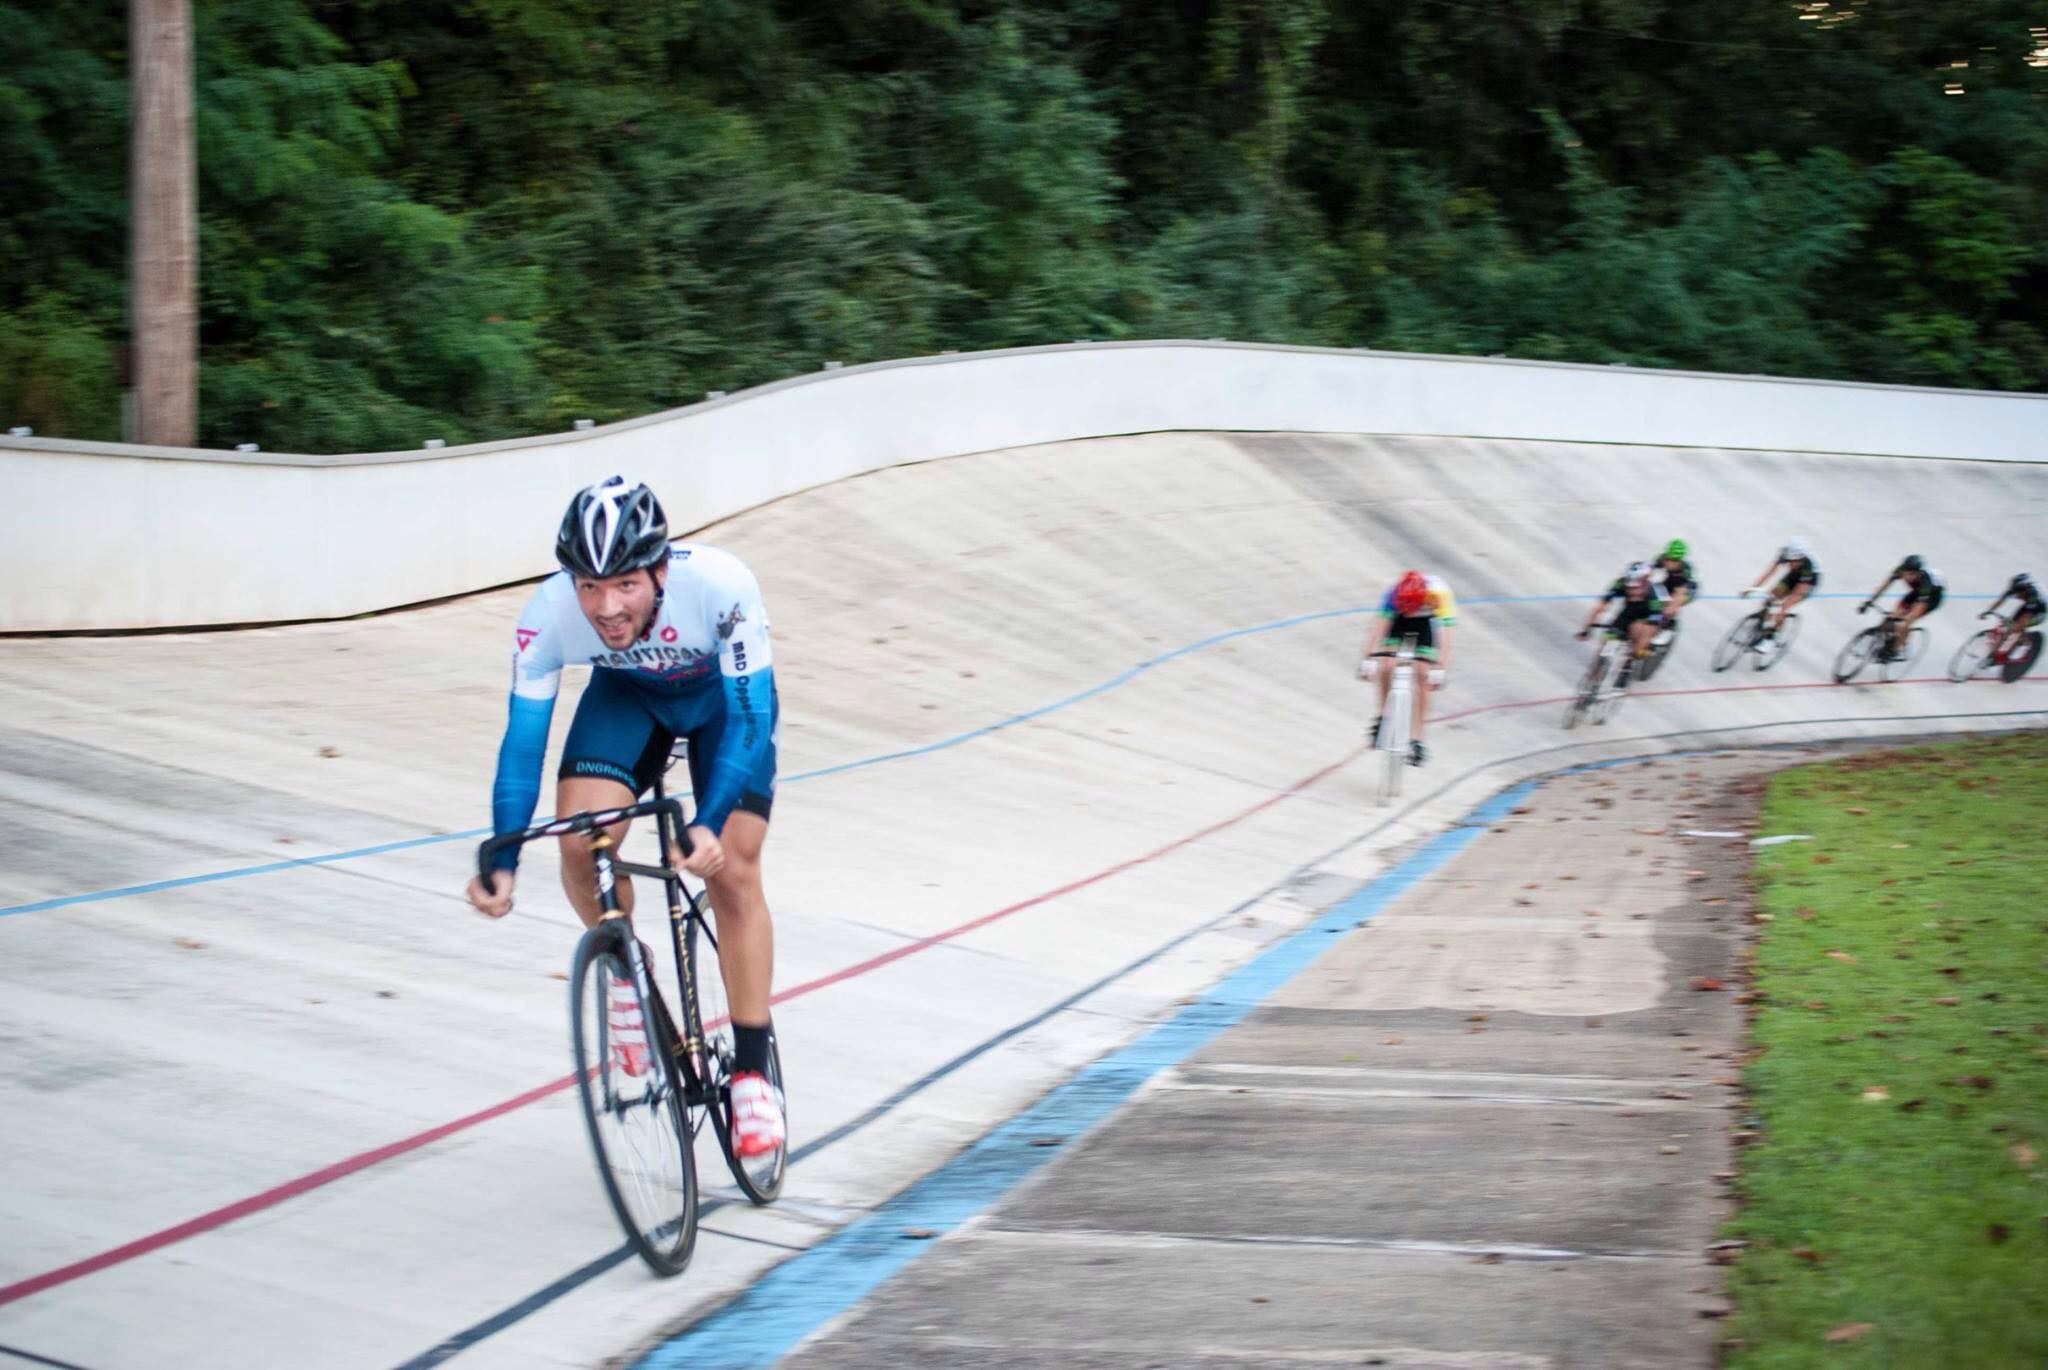
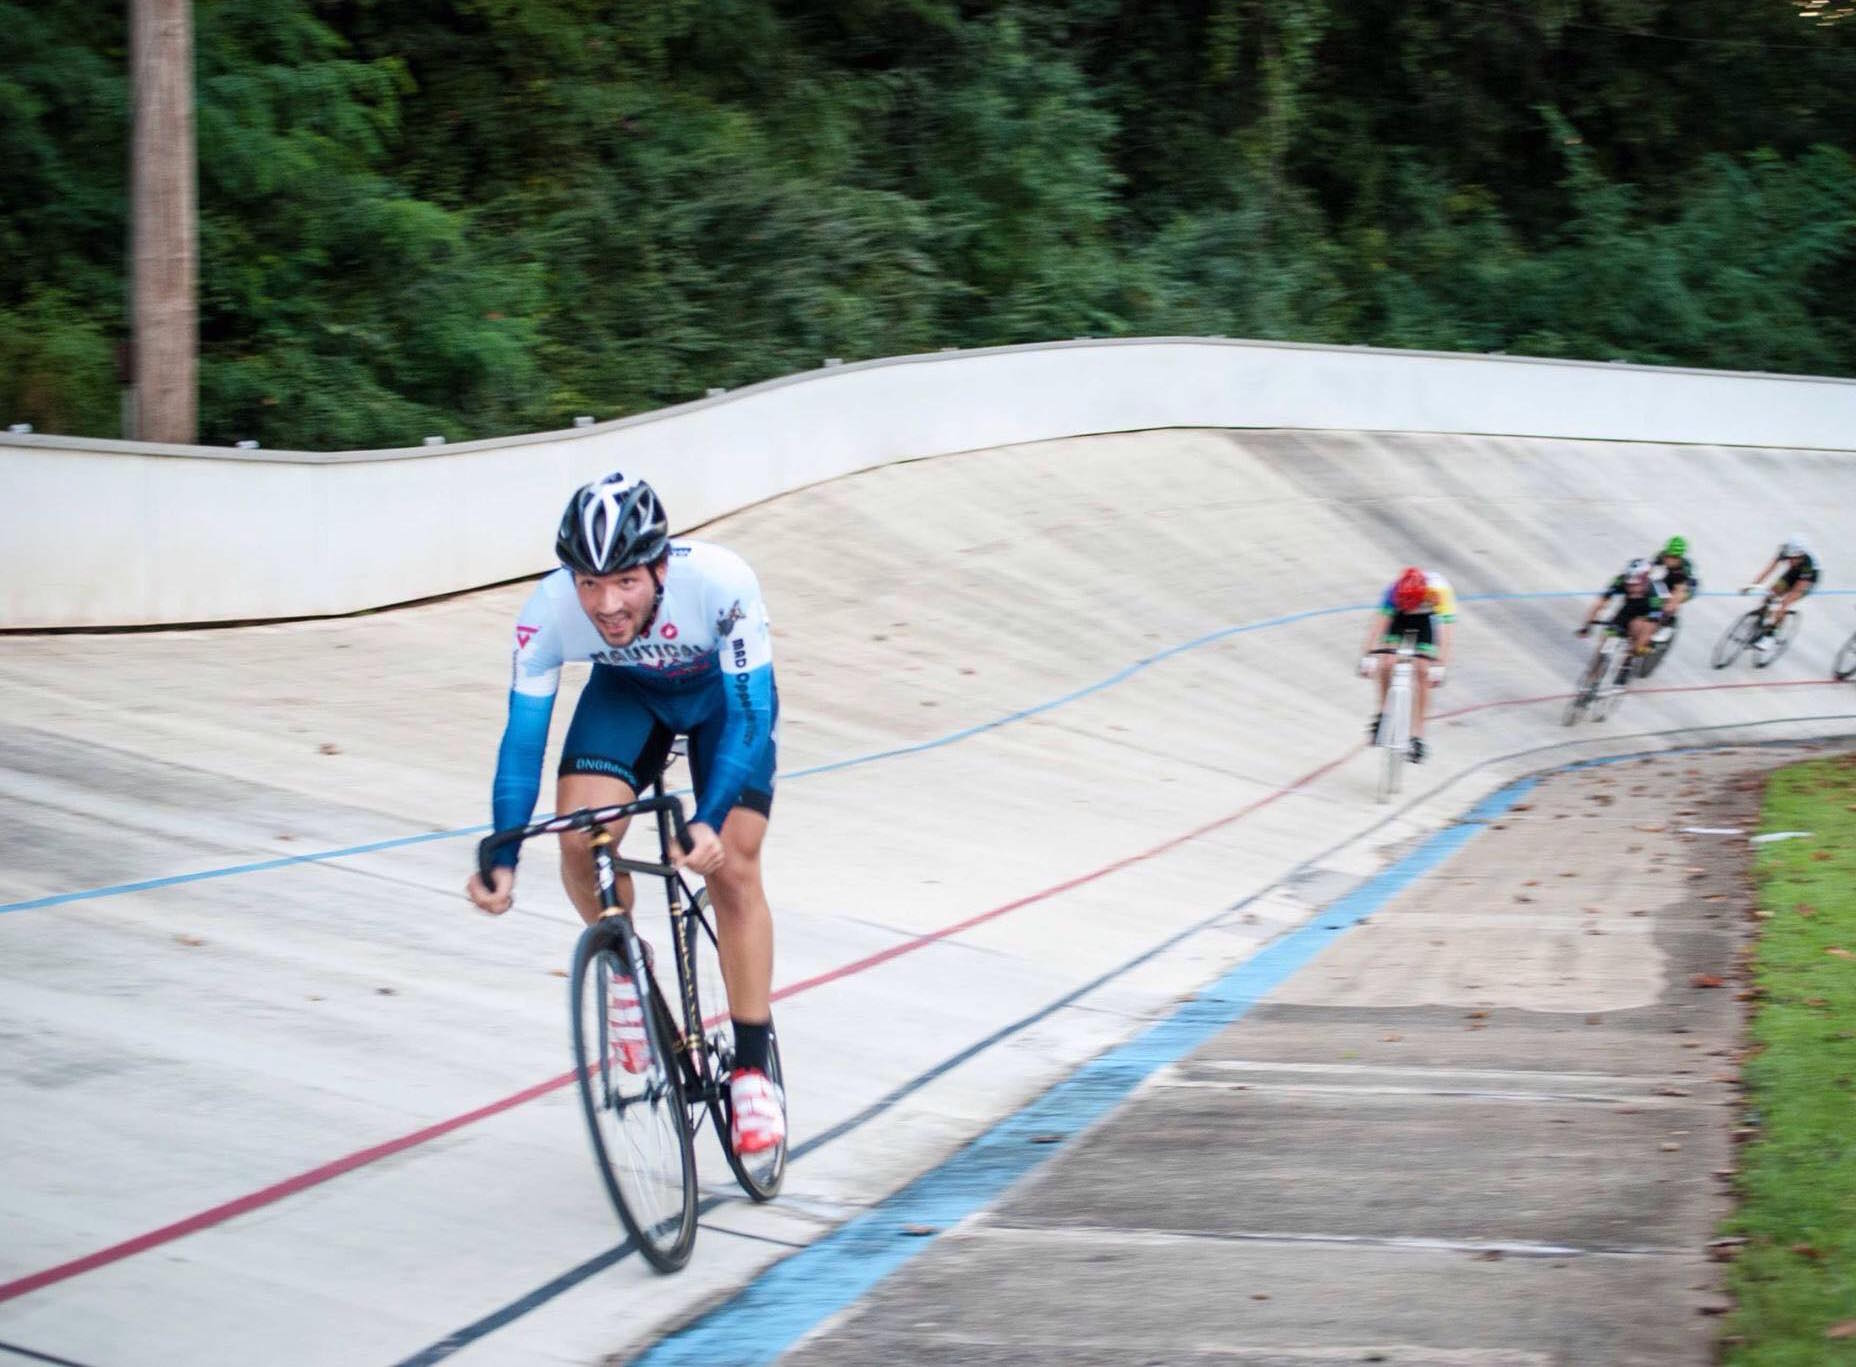
Finished links and replaces bio image

diff --git a/index.html b/index.html
@@ -83,7 +83,7 @@
 
         <!----- END ABOUT ----->
 
-        <span id="work" class="anchor scroll"></span>
+        <span id="work" class="anchor scroll clear"></span>
         <div id="wContainer">
             <div id="workContainer">
                 <h2>Work</h2>
@@ -156,10 +156,10 @@
                                 <a href="https://www.facebook.com/rudy.caveda" target="_blank"><img src="images/facebook500.png" alt="" /></a>
                             </div>
                             <div id="contactInstagram">
-                                <a href="https://www.instagram.com/rcaveda1/"><img src="images/instagram.png" alt="" /></a>
+                                <a href="https://www.instagram.com/rcaveda1/" target="_blank"><img src="images/instagram.png" alt="" /></a>
                             </div>
                             <div id="contactLinkedIn">
-                                <a href="#"><img src="images/linkedin.png" alt="" /></a>
+                                <a href="https://www.linkedin.com/in/rodulfo-caveda-6941b47a" target="_blank"><img src="images/linkedin.png" alt="" /></a>
                             </div>
                             <div id="contactGithub">
                                 <a href="https://github.com/rcave" target="_blank"><img src="images/github.png" alt="" /></a>
@@ -168,7 +168,7 @@
                                 <a href="http://codepen.io/rcave/" target="_blank"><img src="images/CodePen.png" alt="" /></a>
                             </div>
                             <div id="contactSpotify">
-                                <a href="#"><img src="images/spotify.png" alt="" /></a>
+                                <a href="https://open.spotify.com/user/rcaveda1/playlist/2Y3ndNO6uxpLd5BBf4NqtN" target="_blank"><img src="images/spotify.png" alt="" /></a>
                             </div>
                             <div class="centerImage">
                                 <img class="facebookLogo socialInactive" src="images/facebook500.png" alt="Facebook" />

diff --git a/css/main.css b/css/main.css
@@ -15,7 +15,9 @@ html {
     width: 100%;
 }
 
-
+.clear {
+    clear: both;
+}
 /************************************************************/
 
 
@@ -420,7 +422,7 @@ h1 {
 }
 
 #bioContainer {
-    background: url("../images/rc1.jpg") no-repeat center top;
+    background: url("../images/cycling.jpg") no-repeat left top;
     -webkit-background-size: cover;
     -moz-background-size: cover;
     -o-background-size: cover;
@@ -441,6 +443,7 @@ h1 {
 
 #bioTxt {
     width: 325px;
+    float: right;
     border: 2px solid rgba(0, 0, 0, 0.5);
     background: #000;
     background: rgba(0, 0, 0, 0.75);
